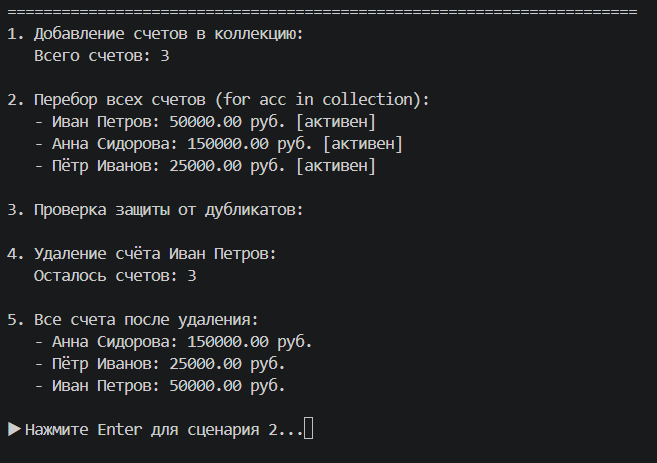
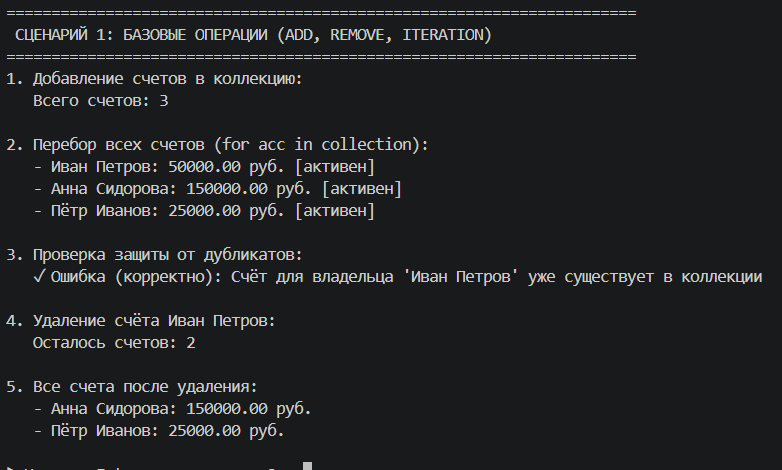
Merge remote changes

diff --git a/src/laba/laba02/collection.py b/src/laba/laba02/collection.py
@@ -11,16 +11,15 @@ class BankAccountCollection:
         """Конструктор коллекции"""
         self._items = items if items is not None else []
 
-
     def add(self, item):
         """Добавить банковский счёт в коллекцию"""
         if not isinstance(item, BankAccount):
             raise TypeError("Можно добавлять только объекты типа BankAccount")
-
-        # Проверка на дубликат по номеру счёта
-        if any(acc.account_number == item.account_number for acc in self._items):
-            raise ValueError(f"Счёт с номером {item.account_number} уже существует в коллекции")
-
+        
+        # ПРОВЕРКА ДУБЛИКАТОВ ПО ИМЕНИ ВЛАДЕЛЬЦА
+        if any(acc.owner_name == item.owner_name for acc in self._items):
+            raise ValueError(f"Счёт для владельца '{item.owner_name}' уже существует в коллекции")
+        
         self._items.append(item)
 
     def remove(self, item):
@@ -34,8 +33,7 @@ class BankAccountCollection:
         """Удалить счёт по индексу"""
         if 0 <= index < len(self._items):
             return self._items.pop(index)
-        else:
-            raise IndexError("Индекс выходит за границы коллекции")
+        raise IndexError("Индекс выходит за границы коллекции")
 
     def get_all(self):
         """Вернуть список всех счетов"""
@@ -68,7 +66,6 @@ class BankAccountCollection:
         """Получить счета с балансом выше порога"""
         return BankAccountCollection([acc for acc in self._items if acc.balance > threshold])
 
-
     def sort_by_balance(self, reverse=False):
         """Сортировка по балансу"""
         self._items.sort(key=lambda acc: acc.balance, reverse=reverse)
@@ -76,10 +73,10 @@ class BankAccountCollection:
     def sort_by_owner_name(self, reverse=False):
         """Сортировка по имени владельца"""
         self._items.sort(key=lambda acc: acc.owner_name, reverse=reverse)
+    
     def sort(self, key, reverse=False):
         """Универсальная сортировка по ключу"""
         self._items.sort(key=key, reverse=reverse)
-
 
     def __len__(self):
         """Возвращает количество счетов в коллекции"""
@@ -88,7 +85,6 @@ class BankAccountCollection:
     def __getitem__(self, index):
         """Доступ к счёту по индексу"""
         if isinstance(index, slice):
-            # Если передан срез, возвращаем новую коллекцию
             return BankAccountCollection(self._items[index])
         return self._items[index]
 
